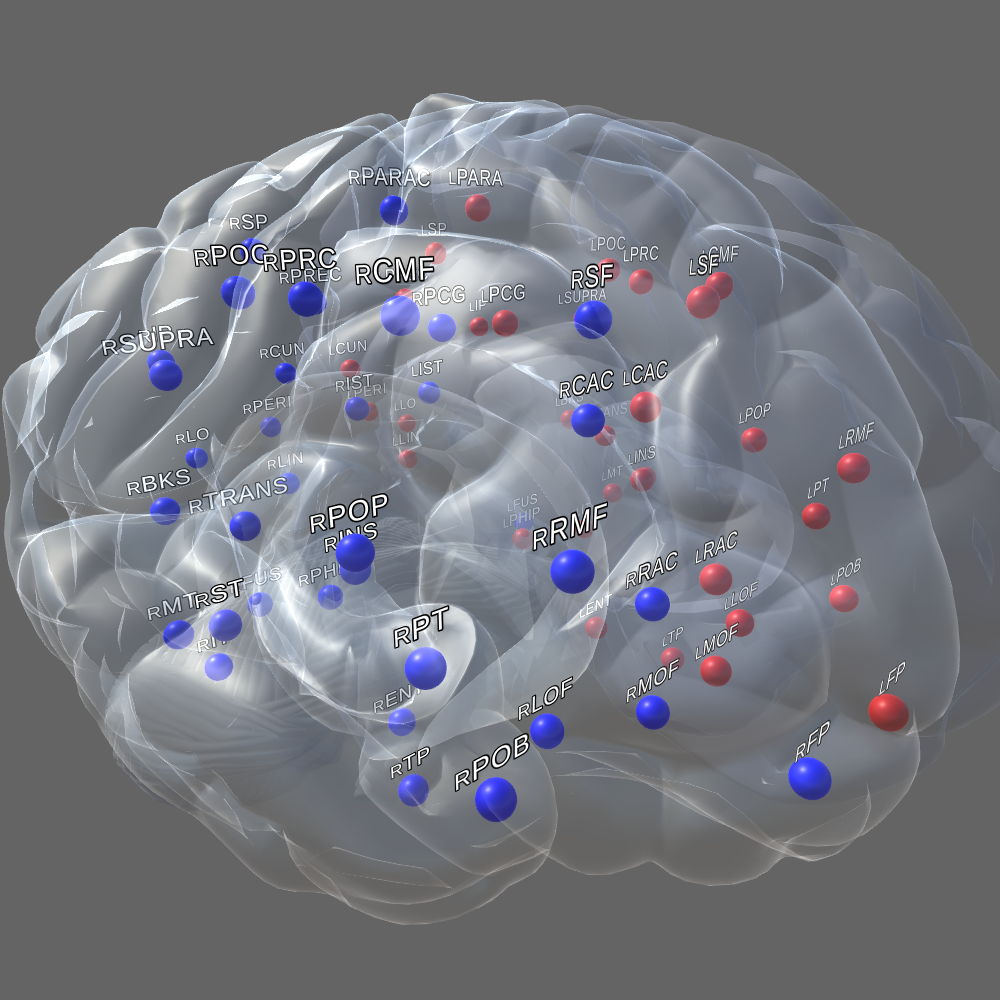
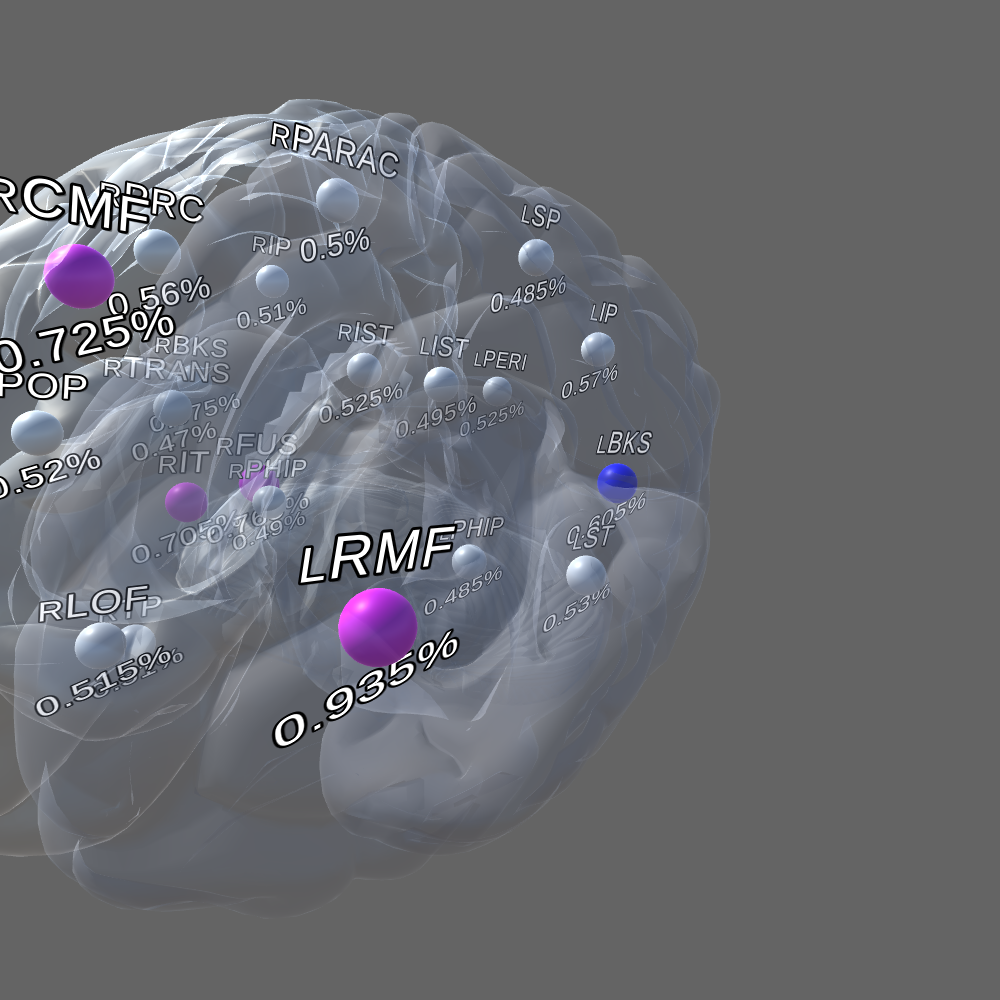
Drop regions without ROI

diff --git a/Assets/Scripts/ROIsController.cs b/Assets/Scripts/ROIsController.cs
@@ -4,6 +4,7 @@ using System.Collections.Generic;
 using System.Linq;
 using Assets.Models;
 using Assets.Models.Interfaces;
+using ModestTree;
 using TMPro;
 using UnityEngine;
 using Zenject;
@@ -106,7 +107,7 @@ public class ROIsController : MonoBehaviour
         {
             factor_low = low_thr;
             factor_midlow = (factor_mid + factor_low) / 2;
-
+           
             foreach (var roi in global.Current_rOIs)
             {
                 foreach (Transform point in Points_obj.transform)
@@ -116,6 +117,7 @@ public class ROIsController : MonoBehaviour
                         ScaleColorROI(roi, point);
                         yield return new WaitForSeconds(0.0000001f);
                     }
+                    
                 }
             }
         }
@@ -174,7 +176,7 @@ public class ROIsController : MonoBehaviour
             foreach (var fac_lbls in ROIs_factors)
             {
                 fac_lbls.transform.Rotate(Vector3.up, X);
-                fac_lbls.transform.Rotate(Vector3.right, Y);
+                fac_lbls.transform.Rotate(Vector3.right, -Y);
             } 
         }
     }
@@ -209,17 +211,17 @@ public class ROIsController : MonoBehaviour
     {
         if (ToDouble(roi.Importance_factor) >= factor_low && ToDouble(roi.Importance_factor) <= factor_midlow)
         {
-            atlas_region.localScale = new Vector3(4f, 4f, 4f);
+            atlas_region.localScale = new Vector3(8f, 8f, 8f);
             ConfigureColor_ROI(atlas_region.gameObject, Color.white);
         }
         if (ToDouble(roi.Importance_factor) > factor_midlow && ToDouble(roi.Importance_factor) < factor_mid)
         {
-            atlas_region.localScale = new Vector3(6f, 6f, 6f);
+            atlas_region.localScale = new Vector3(9f, 9f, 9f);
             ConfigureColor_ROI(atlas_region.gameObject, Color.blue);
         }
         if (ToDouble(roi.Importance_factor) >= factor_mid && ToDouble(roi.Importance_factor) <= factor_high)
         {
-            atlas_region.localScale = new Vector3(8f, 8f, 8f);
+            atlas_region.localScale = new Vector3(10f, 10f, 10f);
             ConfigureColor_ROI(atlas_region.gameObject, Color.magenta);
         }
     }
@@ -238,6 +240,25 @@ public class ROIsController : MonoBehaviour
         Atlas_regions = Points_obj.GetComponentsInChildren<Transform>(true);
         ROIs_factors = Points_obj.GetComponentsInChildren<TMP_Text>(true).Where(a => a.name == "ROI_factor").ToList();
         global.Current_rOIs = reg_of_interests.ToList();
+
+        List<Regions> regs = new List<Regions>();
+        foreach (var roi in global.Current_rOIs)
+        {
+            if (global.Current_Region_list.ToList().Exists(a => a.Abbreviation.ToUpper() == roi.Region.ToUpper()))
+            {
+                regs.Add(global.Current_Region_list.Single(a => a.Abbreviation.ToUpper() == roi.Region.ToUpper())); 
+            }
+        }
+        var region_im = global.Current_Region_list.Except(regs);
+        foreach (var region in region_im)
+        {
+            var point_unimp = Points_obj.GetComponentsInChildren<Transform>().SingleOrDefault(a => a.name.ToUpper() == region.Abbreviation.ToUpper());
+
+            if (point_unimp != null)
+            {
+                point_unimp.gameObject.SetActive(false);
+            }
+        }
     }
 
     void CalculateThresholdROI(IEnumerable<ROI> reg_of_interests)

diff --git a/Assets/Scripts/SideMenuController.cs b/Assets/Scripts/SideMenuController.cs
@@ -28,6 +28,8 @@ public class SideMenuController : MonoBehaviour
     public Toggle Low_thr_toggle;
     public Toggle Mid_thr_toggle;
     public Toggle High_thr_toggle;
+    public Button Load_Correlation_btn;
+    public Button Load_rOI_btn;
     public GameObject Right_Panel_Weight;
     public GameObject Right_Panel_ROI;
 
@@ -133,6 +135,8 @@ public class SideMenuController : MonoBehaviour
             global.AnyRegionSelected = false;
             Right_Panel_Weight.SetActive(false);
             Right_Panel_ROI.SetActive(false);
+            Load_Correlation_btn.interactable = true;
+            Load_rOI_btn.interactable = true;
             RestorePoints(Current_Atlas, global.Atlas_Regions_dict_index[AtlasDropDown.value]);
             //if (global.CorrelationActivated || global.ROIActivated)
             //{
@@ -204,6 +208,7 @@ public class SideMenuController : MonoBehaviour
 
                 StartCoroutine(OnPlotCorrelation(Corelations, Current_Atlas));
 
+                Load_rOI_btn.interactable = false;
                 Right_Panel_Weight.SetActive(true);
                 Low_thr_toggle.isOn = true;
                 Mid_thr_toggle.isOn = true;
@@ -232,6 +237,7 @@ public class SideMenuController : MonoBehaviour
             {
                 global.ROIActivated = true;
 
+                Load_Correlation_btn.interactable = false;
                 StartCoroutine(OnPlotROI(ROIs, Current_Atlas));
 
                 Right_Panel_ROI.SetActive(true);

diff --git a/Assets/Scripts/CameraController.cs b/Assets/Scripts/CameraController.cs
@@ -21,6 +21,11 @@ public class CameraController : MonoBehaviour
 
     void OnPostRender()
     {
+        SnapScreenshot();
+    }
+
+    void SnapScreenshot()
+    {
         if (ReadyToTakeScreenShot)
         {
             ReadyToTakeScreenShot = false;
@@ -38,6 +43,4 @@ public class CameraController : MonoBehaviour
             Camera_fig.targetTexture = null;
         }
     }
-
-
 }
